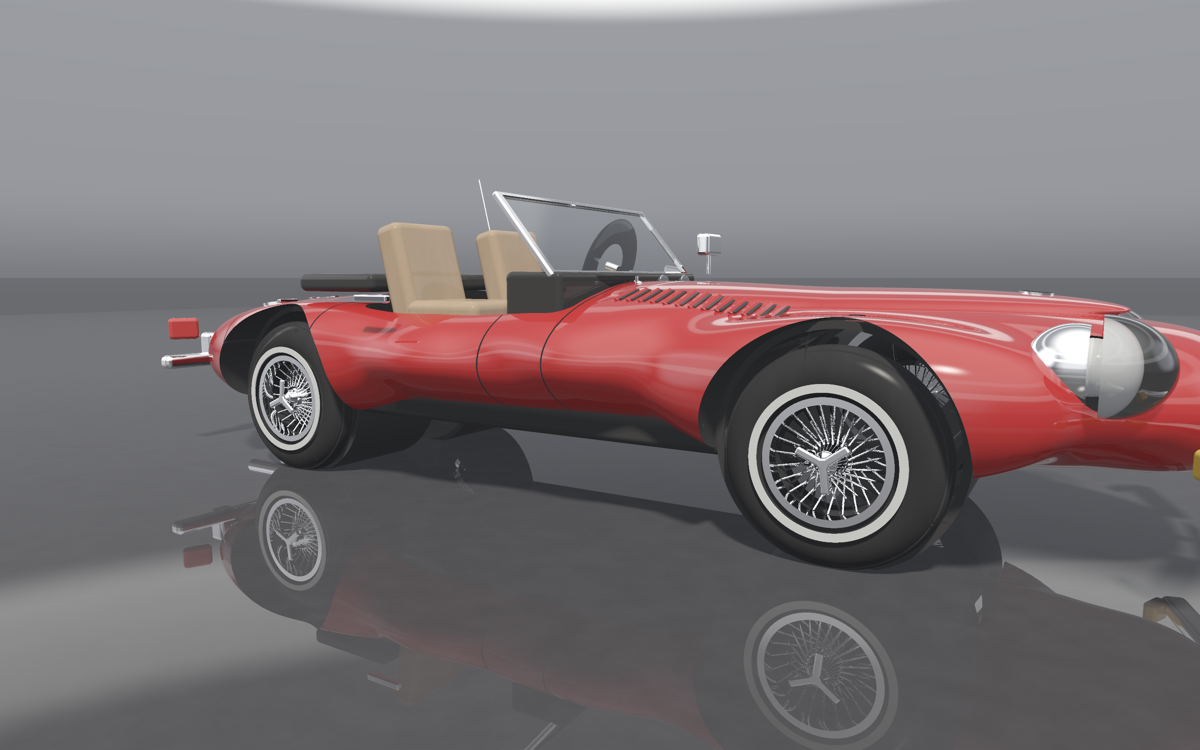
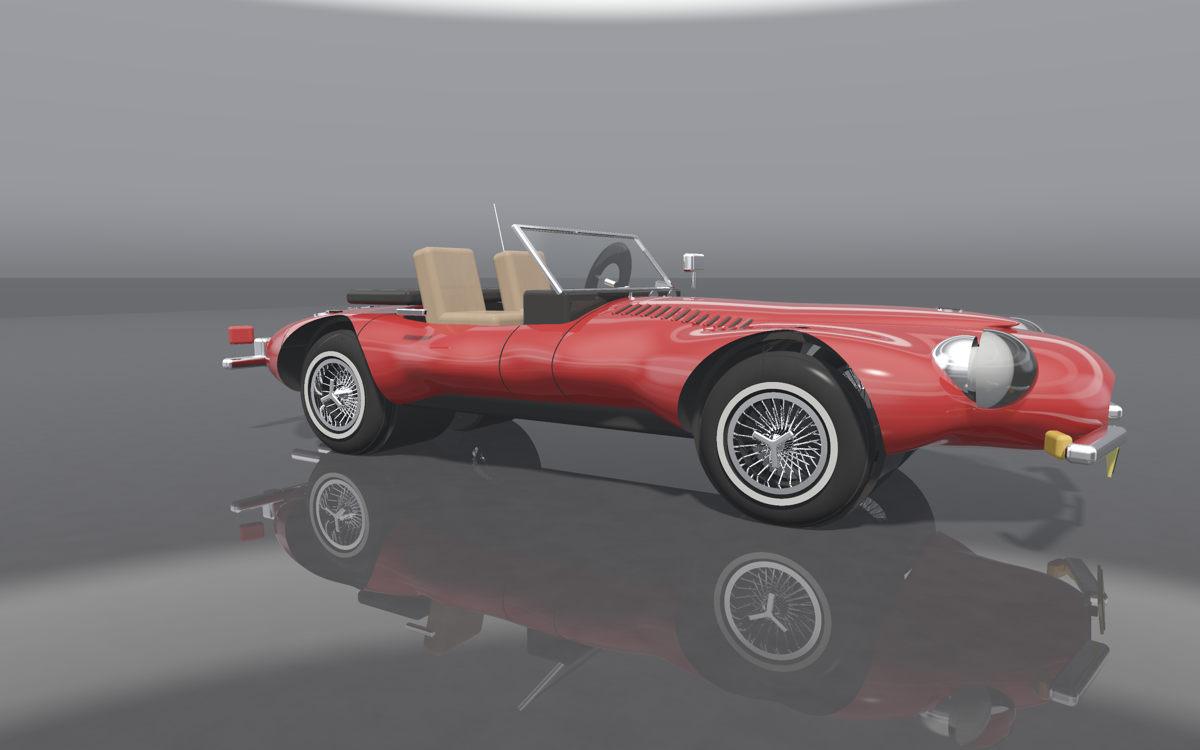
Sports car: widen orbit fit so the whole car stays on screen
focusRadius 21.5 → 25.5. The body grew to a 23.2-unit half-length in the
last proportion pass, so the 3/4 view clipped the nose. Gallery re-rendered.

Claude-Session: https://claude.ai/code/session_01XqCFp893vKVtE5yciGCKBn

diff --git a/RayTracer/Scene.swift b/RayTracer/Scene.swift
@@ -615,7 +615,7 @@ final class CSGScene {
         print("스포츠카: 오브젝트 \(objects.count)개 · 인스턴스 \(placements.count)개")
 
         focusCenter = [0, 4.4, 0]
-        focusRadius = 21.5
+        focusRadius = 25.5          // 차 반장 23.2 + 여유. 21.5 였을 때 3/4 뷰에서 코가 잘렸다
         focusHalfHeight = 6.5
         focusElevation = 0.12
         minElevation = 0.03
